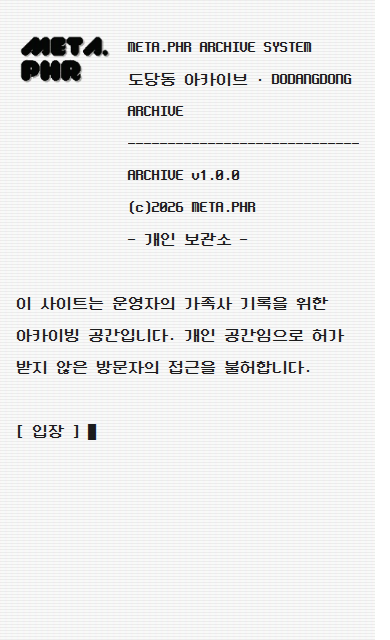
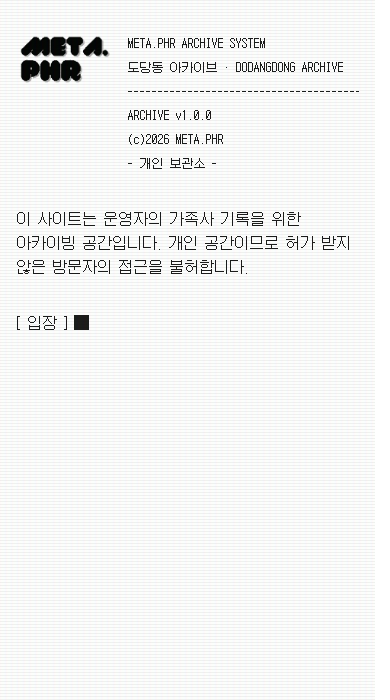
인트로 글꼴을 갈무리로 되돌리고 깜빡임을 걷어낸다
Neo둥근모를 들이지 않는다 — 글꼴은 사이트 전체가 갈무리 하나다. 기계가
제 이름을 대는 머리글과 입력칸만 고정폭(GalmuriMono11), 사람에게 하는 말은
Galmuri11 이다. 크기는 갈무리 격자에 맞춰 24/36, 좁은 화면에서는 15/24.

깜빡이는 것을 모두 없앤다. 형광체 떨림(0.3s 겹)을 걷어냈고, 네모 커서는
남기되 깜빡이지 않는다. 주사선은 가만히 깔린 무늬이고, 움직이는 것은
8초마다 훑는 줄과 첫 방문의 부팅 연출뿐이다.

diff --git a/src/app/intro/intro.css b/src/app/intro/intro.css
@@ -3,28 +3,18 @@
  *
  * 만듦새는 CodePen 의 "Fallout Terminal Inspired CSS Theme" 에서 가져왔다
  * (주사선·깜빡임·훑는 줄·대괄호 링크). 색은 녹색 형광체 대신 이 사이트의
- * 종이색·먹색을 쓰고, 글꼴은 Neo둥근모(SIL OFL 1.1)를 쓴다.
+ * 종이색·먹색을 쓰고, 글꼴도 사이트와 같은 갈무리를 쓴다 — 기계가 말하는
+ * 머리글만 GalmuriMono11, 사람에게 하는 말은 Galmuri11 이다.
  */
 
-@font-face {
-  font-family: "NeoDunggeunmo";
-  src: url("/fonts/neodgm.woff2") format("woff2");
-  font-weight: 400;
-  font-style: normal;
-  font-display: swap;
-}
-
 .intro {
-  /* 비트맵 글꼴이라 16px 의 정수배에서만 선명하다 */
-  --dgm: "NeoDunggeunmo", "Galmuri11", monospace;
   --intro-ink: var(--ink);
   --intro-paper: var(--paper);
 
   background: var(--intro-paper);
   color: var(--intro-ink);
-  font-family: var(--dgm);
-  font-size: 16px;
-  line-height: 32px;
+  /* 갈무리는 12px 격자다 — 24/36 이라야 픽셀이 산다 */
+  font: var(--text-body);
   min-height: 100dvh;
   overflow: hidden;
   padding: 32px 16px 64px;
@@ -37,15 +27,6 @@
   from { clip-path: inset(0 0 100% 0) }
   to   { clip-path: inset(0 0 0 0) }
 }
-@keyframes intro-blink { to { opacity: 0 } }
-@keyframes intro-flicker {
-  0%   { opacity: 0.015 }
-  20%  { opacity: 0.045 }
-  40%  { opacity: 0.010 }
-  60%  { opacity: 0.050 }
-  80%  { opacity: 0.020 }
-  100% { opacity: 0.035 }
-}
 @keyframes intro-scan { from { top: -5% } to { top: 100% } }
 @keyframes intro-line { from { opacity: 0; transform: translateY(-4px) } to { opacity: 1; transform: none } }
 
@@ -57,26 +38,18 @@
   animation-delay: calc(var(--i) * 0.13s) !important;
 }
 
-/* 주사선과 형광체 떨림 — 손가락을 받지 않는 겹이다 */
-.intro-overlay::before,
-.intro-overlay::after {
+/* 주사선 — 손가락을 받지 않는 겹이다. 깜빡이지 않는다(가만히 깔려 있는 무늬다) */
+.intro-overlay::before {
   content: "";
   display: block;
   inset: 0;
   pointer-events: none;
   position: fixed;
   z-index: 2;
-}
-.intro-overlay::before {
   background:
     linear-gradient(rgba(0, 0, 0, 0.05) 50%, transparent 50%),
     linear-gradient(90deg, rgba(255, 0, 0, 0.02), rgba(0, 255, 0, 0.015), rgba(0, 0, 255, 0.02));
   background-size: 100% 3px, 6px 100%;
-}
-.intro-overlay::after {
-  animation: intro-flicker 0.3s steps(1, end) infinite !important;
-  background: var(--intro-ink);
-  opacity: 0.02;
 }
 .intro-scan {
   animation: intro-scan 8s linear 2s infinite !important;
@@ -105,6 +78,8 @@
 .intro-head > div { min-width: 0; overflow-wrap: anywhere; }
 .intro-logo { display: block; height: auto; width: 128px; }
 .intro-head p, .intro-head h1 { font: inherit; margin: 0; }
+/* 기계가 제 이름을 대는 머리글 — 고정폭이라야 줄이 가지런하다 */
+.intro-head > div { font-family: var(--font-mono); }
 
 .intro-line { display: block }
 .intro-rule { white-space: nowrap; overflow: hidden }
@@ -128,8 +103,8 @@
 .intro-key:hover, .intro-key:focus-visible { background: var(--intro-ink); color: var(--intro-paper); outline: 0 }
 .intro-key[disabled] { cursor: default; opacity: 0.4 }
 
-/* 깜빡이는 네모 커서 */
-.intro-caret { animation: intro-blink 1s steps(1, end) infinite !important }
+/* 네모 커서. 깜빡이지 않는다 — 가만히 놓인 표시다 */
+.intro-caret { display: inline-block }
 
 /* 로그인 — 테두리 없이 글자만, 밑줄로 칸을 표시한다 */
 .intro-form { display: grid; gap: 0 16px; grid-template-columns: auto 1fr; max-width: 560px; align-items: baseline; }
@@ -140,6 +115,7 @@
   border-bottom: 2px solid var(--intro-ink);
   color: var(--intro-ink);
   font: inherit;
+  font-family: var(--font-mono);
   min-width: 0;
   padding: 0 4px;
 }
@@ -152,11 +128,14 @@
   .intro-head { gap: 16px }
   .intro-logo { width: 96px }
   .intro-form { grid-template-columns: 1fr }
+  /* 좁은 화면에서는 보조 글 크기로 — 갈무리 격자를 지킨다(15px) */
+  .intro { font: var(--text-body-sm) }
+  .intro-head > div, .intro-form input { font-family: var(--font-mono); font-size: 12px; line-height: 24px }
 }
 
 /* 움직임을 줄여 달라고 한 사람에게는 정지 화면으로 */
 @media (prefers-reduced-motion: reduce) {
-  .intro-overlay::after, .intro-scan, .intro-caret,
+  .intro-scan,
   .intro.is-booting .intro-body, .intro.is-booting .intro-line { animation: none !important }
   .intro-scan { display: none }
 }

diff --git a/DESIGN.md b/DESIGN.md
@@ -89,7 +89,7 @@
 
 ![글자](docs/design/token-type.png)
 
-글꼴은 **갈무리**(Galmuri) 하나뿐이다 — 문 안쪽 전부가 그렇다. 문(인트로)만 Neo둥근모를 쓴다(7장).
+글꼴은 **갈무리**(Galmuri) 하나뿐이다. 인트로까지 그렇다.
 갈무리는 픽셀 글꼴이라 **정해진 크기의 정수배에서만 선명하다.**
 
 - Galmuri11 은 12px 격자다(글꼴 단위로 한 픽셀이 100, 1em 이 1200).
@@ -310,15 +310,18 @@
 낡은 단말기 화면을 흉내 냈다 — 만듦새는 CodePen 의 *Fallout Terminal Inspired CSS Theme* 에서 가져왔고,
 녹색 형광체 대신 이 사이트의 종이색·먹색을 쓴다.
 
-**이 화면에만 허락한 두 가지 예외가 있다.** 다른 어떤 화면도 이것을 따라 하지 않는다.
+글꼴도 갈무리다. 기계가 제 이름을 대는 머리글과 입력칸만 고정폭(GalmuriMono11)이고,
+사람에게 하는 말은 Galmuri11 이다. 크기는 24/36, 좁은 화면에서는 15/24 로 내린다.
+
+**이 화면에만 허락한 예외는 하나뿐이다.** 다른 어떤 화면도 이것을 따라 하지 않는다.
 
 | 예외 | 까닭 |
 | --- | --- |
-| 글꼴이 **Neo둥근모** 다(16/32px 격자, SIL OFL 1.1) | 문은 아카이브가 아니라 그 앞의 단말기다. 안으로 들어오면 다시 갈무리뿐이다 |
-| 움직인다 | 주사선, 형광체 떨림(0.3s), 8초마다 훑고 지나가는 줄, 첫 방문의 부팅 연출. `globals.css` 의 `* { animation: none !important }` 를 `.intro` 안에서만 `!important` 로 되돌린다 |
+| 움직인다 | 8초마다 훑고 지나가는 줄과, 첫 방문의 부팅 연출. `globals.css` 의 `* { animation: none !important }` 를 `.intro` 안에서만 `!important` 로 되돌린다 |
 
+- 주사선은 가만히 깔린 무늬다. **깜빡이지 않는다** — 화면이 떠는 효과는 두지 않는다.
 - 왼쪽 위는 META.PHR 로고, 오른쪽은 기계가 제 이름을 대는 머리글이다.
-- 단추는 `[ 입장 ]` 처럼 대괄호로 감싼다. 커서는 1초마다 깜빡이는 네모(`█`)다.
+- 단추는 `[ 입장 ]` 처럼 대괄호로 감싼다. 커서는 네모(`█`)이고, **깜빡이지 않는다.**
 - 입력칸은 테두리 없이 밑줄(2px) 하나로 긋는다.
 - 부팅 연출(줄이 한 줄씩 떨어지는 것)은 **그 브라우저의 첫 방문에만** 돈다. 두 번째부터는 곧바로 다 그려진다.
 - 움직임을 줄여 달라고 한 사람에게는 모두 멈춘다(`prefers-reduced-motion`).
@@ -420,7 +423,7 @@
 
 - 페이지는 가로로 넘치지 않는다. 옆 여백은 16px 이다.
 - **넓은 그림은 상자 안에서만 가로로 민다.** 생애 띠와 가계도가 그렇다. 처음에는 봐야 할 곳이 가운데에 온다(지금 연대, "나").
-- 인트로는 로고가 작아지고(96px), 머리글이 줄을 바꾸며, 아이디·비밀번호 칸이 이름표 아래로 내려간다.
+- 인트로는 글자가 15/24 로 내려가고(머리글은 12/24), 로고가 96px 이 되며, 아이디·비밀번호 칸이 이름표 아래로 내려간다.
 - 히어로는 사진이 위, 글이 아래로 간다. 상세정보 표는 요소명이 위, 값이 아래로 간다. 녹취록은 시각이 말 위로 올라간다.
 
 ![히어로 — 좁은 화면](docs/design/part-hero-mobile.png)
@@ -449,7 +452,7 @@
 - 애니메이션, 전환 효과, 자동 넘김, 스크롤 따라 움직이는 효과를 쓰지 않는다(인트로만 예외).
 - 사진에 필터·세피아·흑백 처리를 하지 않는다. 사진은 원본 그대로 보인다.
 - 인장색을 장식·링크·오류·"새 글" 표시에 쓰지 않는다. 연표 밖에서 유형 색을 쓰지 않는다.
-- 12·15·24·36·48px 밖의 글자 크기, 흉내 낸 굵은체, 갈무리 밖의 글꼴을 쓰지 않는다(인트로의 Neo둥근모만 예외).
+- 12·15·24·36·48px 밖의 글자 크기, 흉내 낸 굵은체, 갈무리 밖의 글꼴을 쓰지 않는다.
 - 비공개를 자물쇠나 흐린 칸으로 보여 주지 않는다. 손님에게는 없는 것이다.
 - 모르는 값을 채워 넣지 않는다. "기록 없음"이나 `?` 로 둔다.
 
